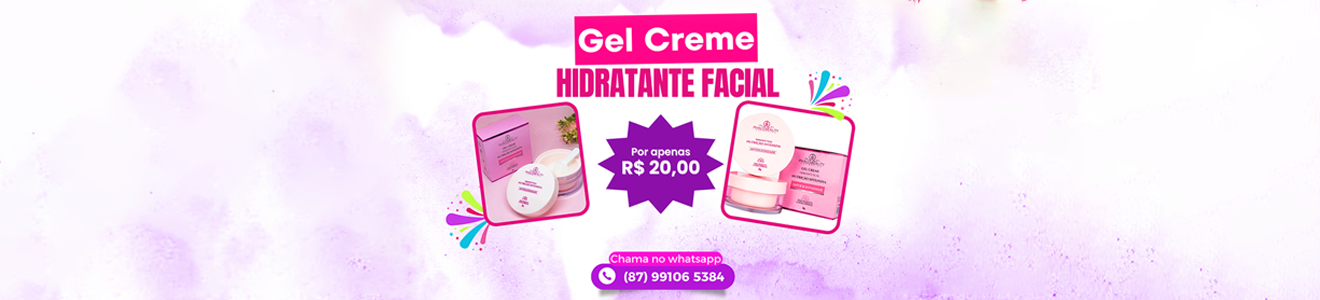
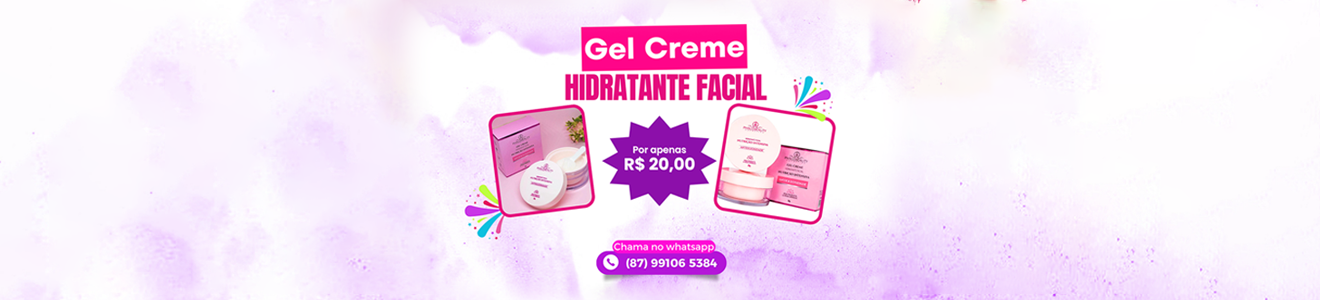
alteração

diff --git a/script.js b/script.js
@@ -266,7 +266,7 @@ let produtos = [
 // Banners fixos
 let banners = [
   { id: 1, titulo: "Banner Principal", imagem: "https://github.com/coodenext/catalogojumake0.2/blob/main/ban1_2.png?raw=true" },
-  { id: 2, titulo: "Promoções", imagem: "https://github.com/coodenext/catalogojumake0.2/blob/main/ban1_1.png?raw=true" },
+  { id: 2, titulo: "Promoções", imagem: "https://github.com/coodenext/catalogojumake0.2/blob/main/ban1_3.png?raw=true" },
   { id: 3, titulo: "Novidades", imagem: "https://github.com/coodenext/catalogojumake0.2/blob/main/ban1_3.png?raw=true" }
 ];
 
